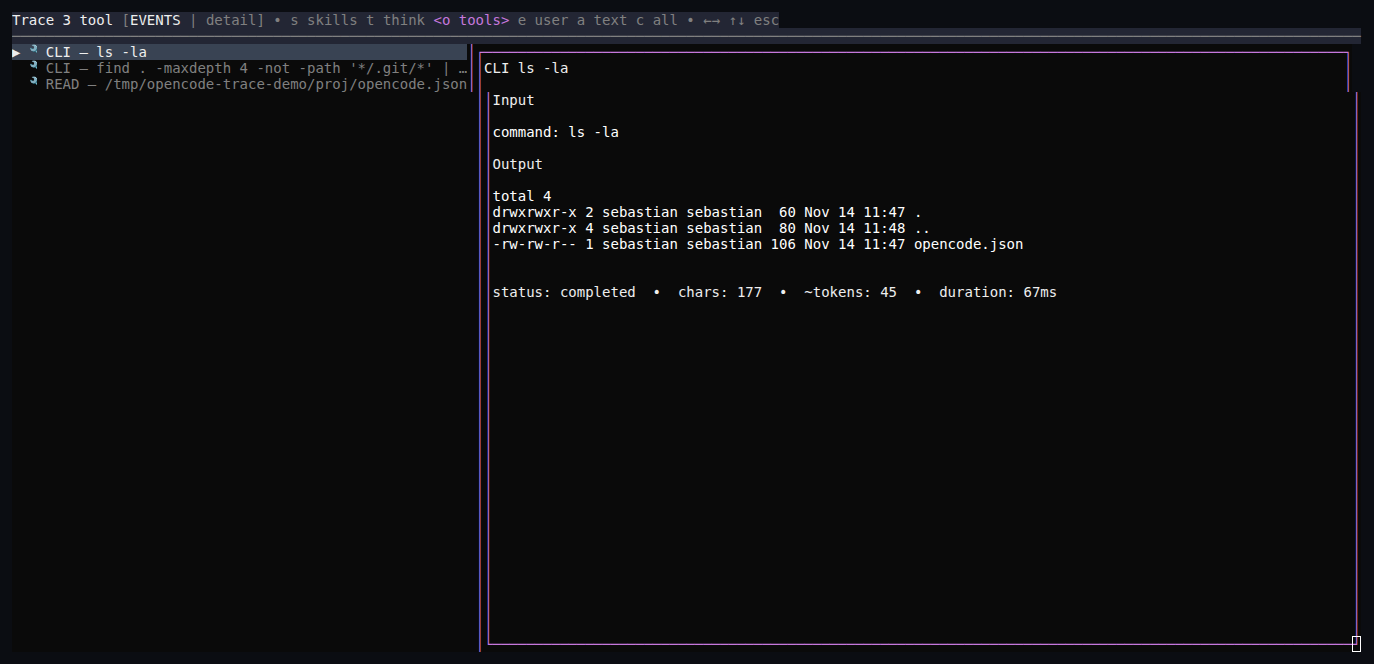
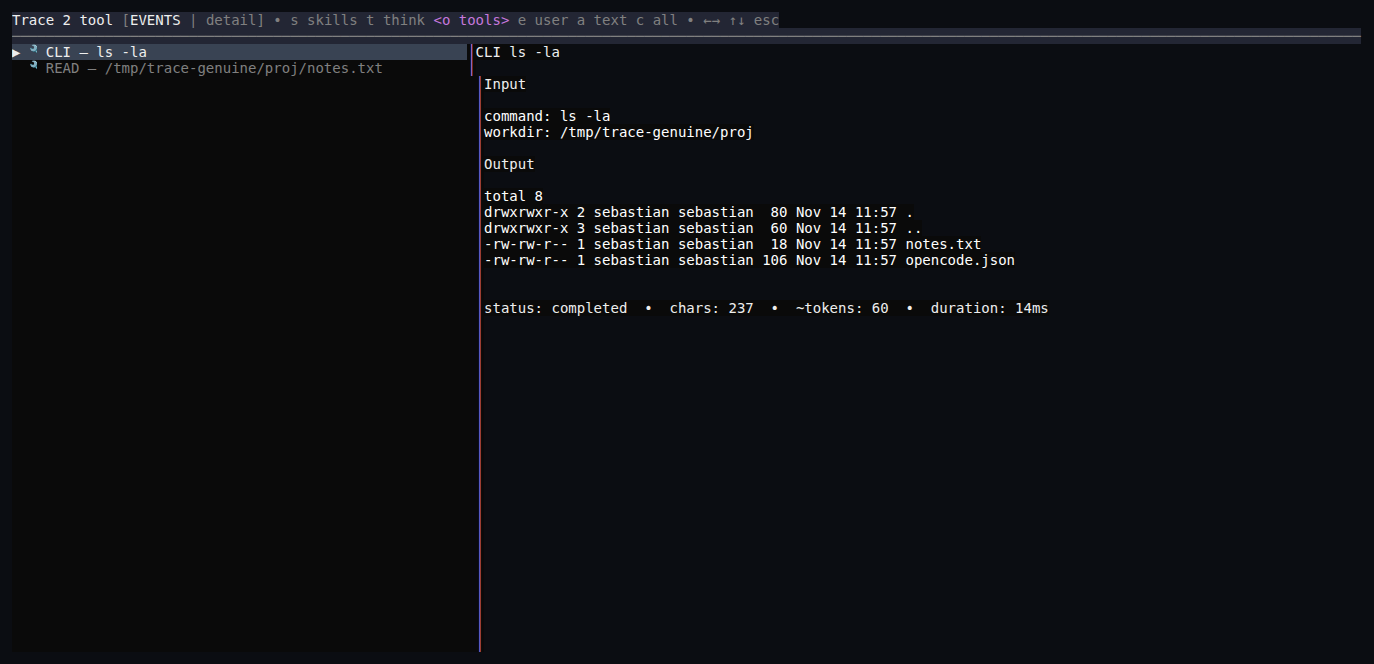
Market README around live event timeline; fix unfocused pane phantom border, refresh authentic screenshots and tests

Changed region(s): [[0.3362, 0.241, 0.7642, 0.4819], [0.0306, 0.0602, 0.5502, 0.2108], [0.9782, 0.9337, 1.0, 0.994]]

diff --git a/tui.tsx b/tui.tsx
@@ -2,7 +2,7 @@ import { Plugin, usePlugin } from "@opencode/plugin/tui"
 import { createEffect, createSignal, onCleanup, Show, For } from "solid-js"
 import { ContextTraceRpc } from "./rpc"
 import { timeline } from "./trace"
-import { detailPaneBorder, eventDetail, eventMarkdown, eventRow, eventTone, filterItems, focusParts, headerFitsEscHint, listPaneBorder, selectionIndex, selectionMarker, toggleFilter } from "./panel"
+import { eventDetail, eventMarkdown, eventRow, eventTone, filterItems, focusParts, headerFitsEscHint, paneBorders, selectionIndex, selectionMarker, toggleFilter } from "./panel"
 import type { EventFilter } from "./panel"
 
 const filterHints = [
@@ -147,8 +147,8 @@ function ContextTracePanel(props: { panel: any }) {
   const eventBody = () => eventDetail(item())
   const eventMd = () => eventMarkdown(item())
   const rowWidth = () => Math.max(24, Math.floor((narrow() ? panelWidth() : panelWidth() * 0.35) - 4))
-  const listBorder = () => { const sides = listPaneBorder(narrow(), focus()); return sides.length ? sides : undefined }
-  const detailBorder = () => { const sides = detailPaneBorder(narrow(), focus()); return sides.length ? sides : undefined }
+  const listBorder = () => paneBorders(narrow(), focus()).list
+  const detailBorder = () => paneBorders(narrow(), focus()).detail
   return <box flexDirection="column" width="100%" height="100%">
     <box flexDirection="column" width="100%" flexShrink={0} backgroundColor={colors().headerBg} border={["bottom"]} borderStyle="single" borderColor={colors().borderSubtle}>
       <box flexDirection="row" width="100%" height={1}>

diff --git a/trace.test.ts b/trace.test.ts
@@ -305,6 +305,27 @@ test('focus cues distinguish the active pane from the selection without relying 
   assert.deepEqual(detailPaneBorder(true, 'detail'), ['top'])
 })
 
+test('pane borders are always side arrays so the unfocused pane stays borderless', () => {
+  const { paneBorders } = panel as any
+  assert.equal(typeof paneBorders, 'function')
+  for (const narrow of [false, true]) {
+    for (const focus of ['list', 'detail']) {
+      const { list, detail } = paneBorders(narrow, focus)
+      assert.ok(Array.isArray(list), `list border is an array in narrow=${narrow} focus=${focus}`)
+      assert.ok(Array.isArray(detail), `detail border is an array in narrow=${narrow} focus=${focus}`)
+      // OpenTUI promotes falsy `border` (false/undefined) to a full border when
+      // borderStyle/borderColor apply at mount, so the prop must never be falsy.
+      assert.notEqual(list, undefined)
+      assert.notEqual(detail, false as any)
+      assert.equal(list.length + detail.length, 1, `exactly one divider in narrow=${narrow} focus=${focus}`)
+    }
+  }
+  assert.deepEqual(paneBorders(false, 'list'), { list: ['right'], detail: [] })
+  assert.deepEqual(paneBorders(false, 'detail'), { list: [], detail: ['left'] })
+  assert.deepEqual(paneBorders(true, 'list'), { list: ['bottom'], detail: [] })
+  assert.deepEqual(paneBorders(true, 'detail'), { list: [], detail: ['top'] })
+})
+
 test('header keeps a single row by hiding the trailing key hint when it would overflow', () => {
   const { headerFitsEscHint } = panel as any
   assert.equal(typeof headerFitsEscHint, 'function')

diff --git a/panel.ts b/panel.ts
@@ -15,14 +15,24 @@ export function selectionMarker(focus: PaneFocus): string {
   return focus === "list" ? "▶ " : "› "
 }
 
-export function listPaneBorder(narrow: boolean, focus: PaneFocus): ("bottom" | "right")[] {
+export type BorderSide = "top" | "right" | "bottom" | "left"
+
+export function listPaneBorder(narrow: boolean, focus: PaneFocus): BorderSide[] {
   if (focus !== "list") return []
   return narrow ? ["bottom"] : ["right"]
 }
 
-export function detailPaneBorder(narrow: boolean, focus: PaneFocus): ("top" | "left")[] {
+export function detailPaneBorder(narrow: boolean, focus: PaneFocus): BorderSide[] {
   if (focus !== "detail") return []
   return narrow ? ["top"] : ["left"]
+}
+
+// Border props for the two panes. Always arrays (possibly empty): OpenTUI's
+// borderStyle/borderColor setters promote a falsy `border` (false/undefined)
+// to a full border at mount, so passing `undefined` for the unfocused pane
+// renders a phantom full box until the next focus change repairs it.
+export function paneBorders(narrow: boolean, focus: PaneFocus): { list: BorderSide[], detail: BorderSide[] } {
+  return { list: listPaneBorder(narrow, focus), detail: detailPaneBorder(narrow, focus) }
 }
 
 // Whether the trailing key-hint fits on the single header row next to the

diff --git a/README.md b/README.md
@@ -1,10 +1,36 @@
 # OpenCode Agent Trace
 
-![OpenCode Agent Trace: a schematic of session events](assets/banner.svg)
+**See what goes into your agent session.** Explore your agent's context, event by event — prompts, thinking blocks, tool calls, and answers in one live timeline, right inside the TUI. It shows the session events available from the OpenCode server, not a byte-for-byte model request.
 
-An experimental OpenCode V2 plugin for inspecting agent-loop events in a terminal timeline. Event-only: it reads the live session through OpenCode RPC and renders a filterable event list with a full readable detail pane. It writes nothing to disk and captures nothing in the background.
+![Event timeline with list and detail side by side](assets/trace-tui-authentic-wide.png)
 
-> This version performs no capture and keeps no snapshots. Files saved by earlier versions under `~/.local/share/opencode/context-trace/` are left untouched; remove them manually if you no longer want them. See [privacy and limitations](docs/privacy-and-limitations.md).
+Open a session and run `/trace`, or choose **Context Trace: Open Timeline** from the command palette.
+
+## What you get
+
+- **Available events, in order.** User prompts, thinking blocks, tool calls, assistant text, and skills returned for this session — one scrollable timeline, no digging through transcripts.
+- **Tool calls fully unpacked.** Structured input and output with real line breaks, plus status, duration, and character and rough token-size estimates per event.
+- **One-key filters.** Jump to skills (`s`), thinking (`t`), tools (`o`), user prompts (`e`), or assistant text (`a`); `c` shows everything again.
+- **A detail pane worth reading.** Prose renders as markdown (plain-text fallback), tool payloads render as structured text.
+- **Always current.** The list refreshes automatically while the panel is open, reading the live session over OpenCode RPC with a local-cache fallback.
+- **Built for the terminal.** Theme-aware colors with text and shape markers (never color alone), explicit pane focus, and a stacked layout on narrow terminals.
+
+![Tool filter with structured command input, output, and status](assets/trace-tui-authentic-filter.png)
+*Filter to tools to audit a command's input, output, and status.*
+
+![Stacked list-above-detail layout for narrow terminals](assets/trace-tui-authentic-narrow.png)
+*Narrow terminals stack the list above the detail pane.*
+
+| Key | Action |
+| --- | --- |
+| `←` / `→` (or `h` / `l`) | Focus the event list / detail pane |
+| `↑` / `↓` (or `j` / `k`) | Move the selection (list) or scroll (detail) |
+| `s` / `t` / `o` / `e` / `a` | Filter events: skills / thinking / tools / user / assistant text; pressing the same key again shows all |
+| `c` | Clear the event filter (show all) |
+| `PageUp` / `PageDown` | Scroll the detail pane |
+| `Esc` | Close the panel |
+
+The header is a frozen top bar with the event count and a compact filter bar. Each row shows an emoji, a badge, and a short preview (for example `🔧 READ — src/index.ts`); the badge appears once and the preview never repeats it. It names the focused pane explicitly as `[EVENTS | detail]` or `[events | DETAIL]`: the active pane appears in uppercase at full strength while the inactive pane is lowercase and muted, so focus never depends on color alone. The divider between the panes is drawn in the theme's active border color on the focused pane's edge. The selected row keeps its highlight background in both panes but shows `▶` at full strength only while the list is focused and a muted `›` when detail is focused, keeping selection visible yet clearly subdued. All colors come from the host theme with plain fallbacks. On narrow terminals (under 80 columns) the list stacks above the detail pane.
 
 ## Install locally
 
@@ -18,30 +44,6 @@ Clone this repository, then add its absolute path to the `plugins` array in your
 ```
 
 This is a local source installation, not an npm release. Do not load another copy of the `context-trace` plugin at the same time. Tested with OpenCode v2.2.7 and v2.3.0; other versions have not been tested.
-
-## Explore a session
-
-Open a session and run `/trace`, or choose **Context Trace: Open Timeline** from the command palette.
-
-![Real TUI with synthetic data: wide two-pane event list and detail](assets/trace-tui-authentic-wide.png)
-*Real TUI with synthetic data: wide layout with event list and detail side by side.*
-
-![Real TUI with synthetic data: filtered tool events with structured detail](assets/trace-tui-authentic-filter.png)
-*Real TUI with synthetic data: tool-only filter with command input, output, and status.*
-
-![Real TUI with synthetic data: narrow stacked layout](assets/trace-tui-authentic-narrow.png)
-*Real TUI with synthetic data: narrow terminal with list stacked above detail.*
-
-| Key | Action |
-| --- | --- |
-| `←` / `→` (or `h` / `l`) | Focus the event list / detail pane |
-| `↑` / `↓` (or `j` / `k`) | Move the selection (list) or scroll (detail) |
-| `s` / `t` / `o` / `e` / `a` | Filter events: skills / thinking / tools / user / assistant text; pressing the same key again shows all |
-| `c` | Clear the event filter (show all) |
-| `PageUp` / `PageDown` | Scroll the detail pane |
-| `Esc` | Close the panel |
-
-The header is a frozen top bar with the event count and a compact filter bar. Each row shows an emoji, a badge, and a short preview (for example `🔧 READ — src/index.ts`); the badge appears once and the preview never repeats it. A filter shows only matching events. It names the focused pane explicitly as `[EVENTS | detail]` or `[events | DETAIL]`: the active pane appears in uppercase at full strength while the inactive pane is lowercase and muted, so focus never depends on color alone. The divider between the panes is drawn in the theme's active border color on the focused pane's edge. The selected row keeps its highlight background in both panes but shows `▶` at full strength only while the list is focused and a muted `›` when detail is focused, keeping selection visible yet clearly subdued. All colors come from the host theme with plain fallbacks, and rows carry text and shape markers as well as color so nothing depends on color alone. The detail pane renders prose as markdown and tool input/output as structured text with real line breaks (never `\n` escapes); when markdown support is unavailable it falls back to plain text. On narrow terminals (under 80 columns) the list stacks above the detail pane. The list refreshes automatically while the panel is open.
 
 ## Privacy and limits
 
